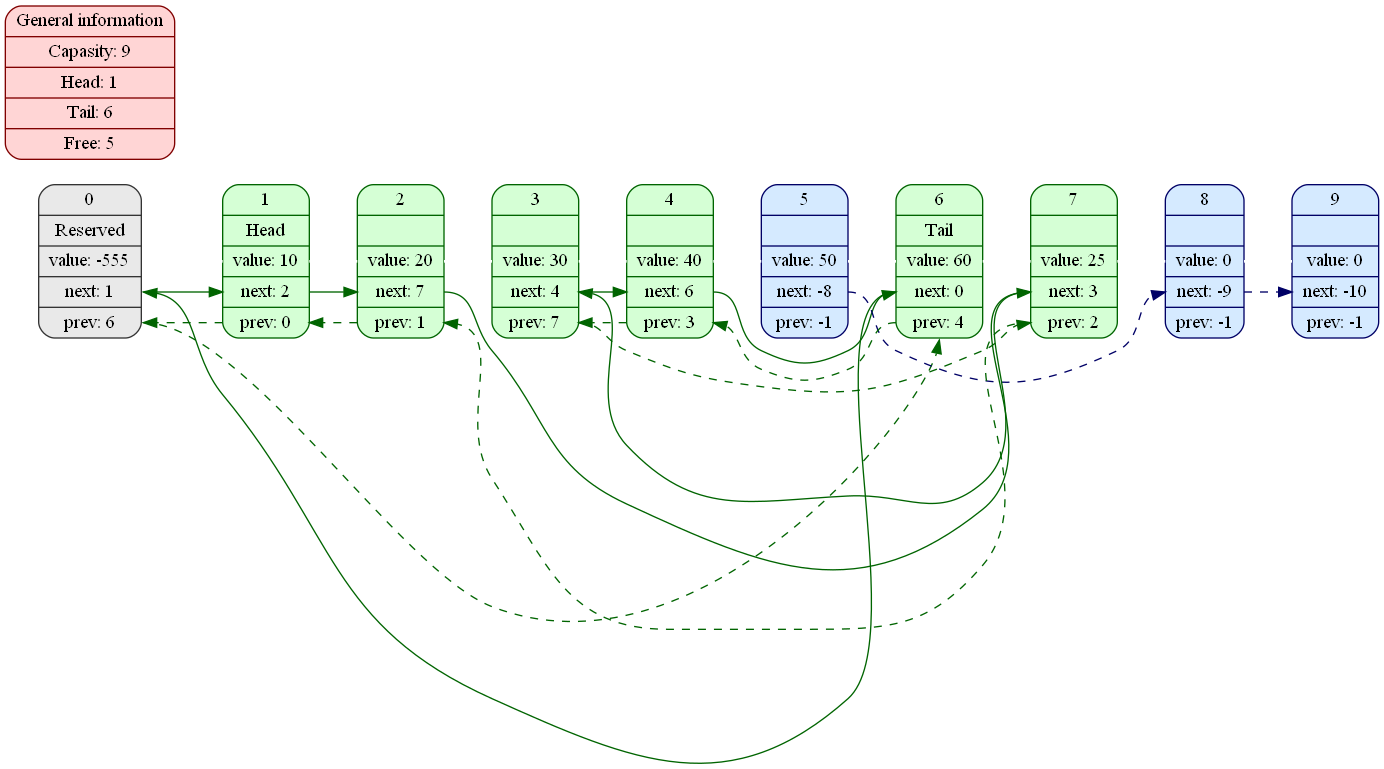
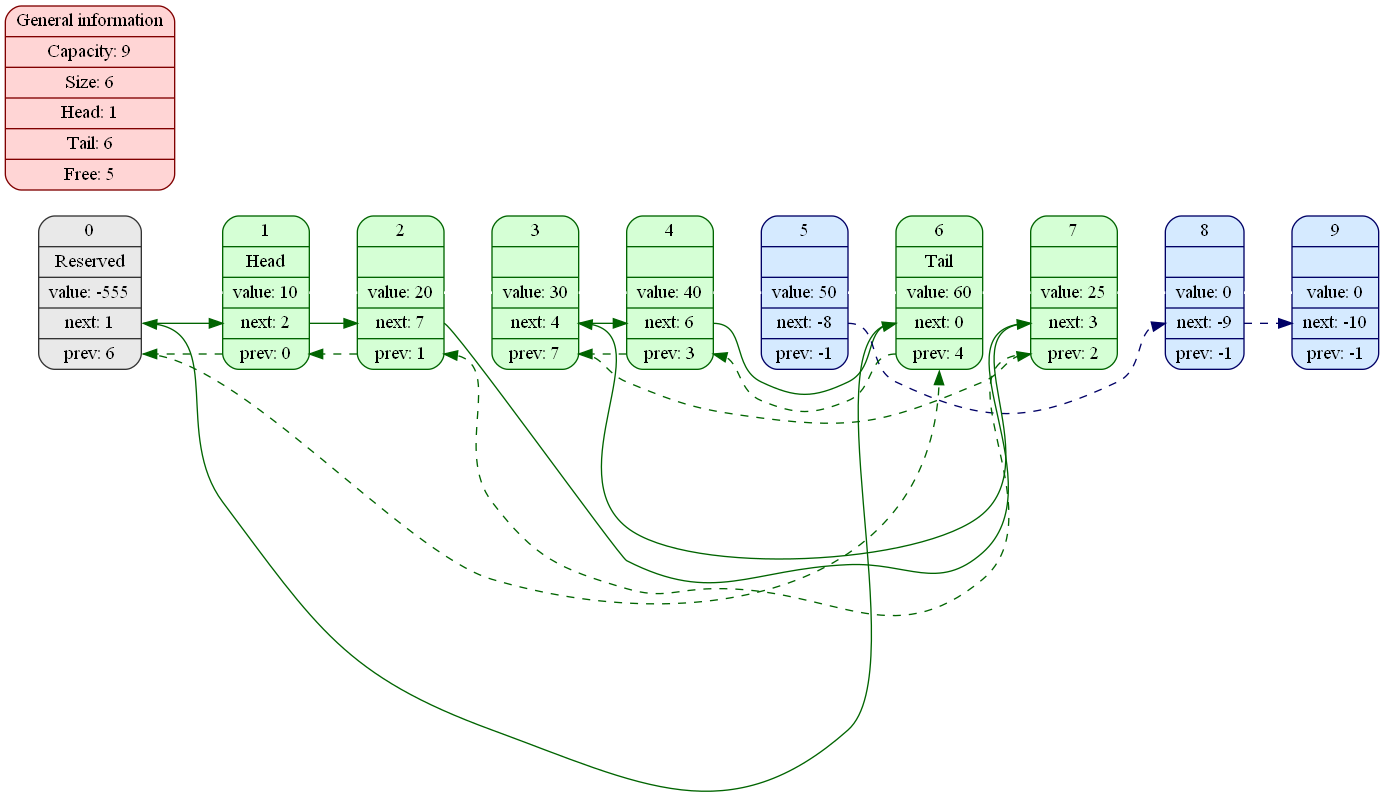
Added realloc, changed const and variables names

diff --git a/ListDump.htm b/ListDump.htm
@@ -1,24 +1,24 @@
 <pre>
--------------------------------------------File was opened at 16:10:54------------------------------------------
+-------------------------------------------File was opened at 14:13:01------------------------------------------
 
 List after initializing
 
 ---------------------------------------------------------------------------------------------------------------
 
-<img src = "C:\Users\admin\Documents\GitHub\Lists\Pictures\ListPicture1.png">
-list_dump from file: List.cpp line 367 function: ctor_dump
+<img src = "C:\Users\admin\Documents\GitHub\Lists\Pictures\ListPicture1.png" width = 70%>
+list_dump from file: List.cpp line 432 function: ctor_dump
 
 head = 0
 tail = 0
 free = 1
 
-number:  0000 | 0001 | 0002 | 0003 | 0004 | 0005 | 0006 | 0007 | 0008 | 0009 |
+number:  0000 | 0001 | 0002 | 0003 | 0004 |
 
-data:    -555 | 0000 | 0000 | 0000 | 0000 | 0000 | 0000 | 0000 | 0000 | 0000 |
+data:    -555 | 0000 | 0000 | 0000 | 0000 |
 
-next:    0000 | -002 | -003 | -004 | -005 | -006 | -007 | -008 | -009 | -010 |
+next:    0000 | -002 | -003 | -004 | -005 |
 
-prev:    0000 | -001 | -001 | -001 | -001 | -001 | -001 | -001 | -001 | -001 |
+prev:    0000 | -001 | -001 | -001 | -001 |
 
 ---------------------------------------------------------------------------------------------------------------
 
@@ -26,20 +26,20 @@ Push 10 after element with index 0
 
 ---------------------------------------------------------------------------------------------------------------
 
-<img src = "C:\Users\admin\Documents\GitHub\Lists\Pictures\ListPicture2.png">
-list_dump from file: List.cpp line 342 function: push_dump
+<img src = "C:\Users\admin\Documents\GitHub\Lists\Pictures\ListPicture2.png" width = 70%>
+list_dump from file: List.cpp line 408 function: push_dump
 
 head = 1
 tail = 1
 free = 2
 
-number:  0000 | 0001 | 0002 | 0003 | 0004 | 0005 | 0006 | 0007 | 0008 | 0009 |
+number:  0000 | 0001 | 0002 | 0003 | 0004 |
 
-data:    -555 | 0010 | 0000 | 0000 | 0000 | 0000 | 0000 | 0000 | 0000 | 0000 |
+data:    -555 | 0010 | 0000 | 0000 | 0000 |
 
-next:    0001 | 0000 | -003 | -004 | -005 | -006 | -007 | -008 | -009 | -010 |
+next:    0001 | 0000 | -003 | -004 | -005 |
 
-prev:    0001 | 0000 | -001 | -001 | -001 | -001 | -001 | -001 | -001 | -001 |
+prev:    0001 | 0000 | -001 | -001 | -001 |
 
 ---------------------------------------------------------------------------------------------------------------
 
@@ -47,20 +47,20 @@ Push 20 after element with index 1
 
 ---------------------------------------------------------------------------------------------------------------
 
-<img src = "C:\Users\admin\Documents\GitHub\Lists\Pictures\ListPicture3.png">
-list_dump from file: List.cpp line 342 function: push_dump
+<img src = "C:\Users\admin\Documents\GitHub\Lists\Pictures\ListPicture3.png" width = 70%>
+list_dump from file: List.cpp line 408 function: push_dump
 
 head = 1
 tail = 2
 free = 3
 
-number:  0000 | 0001 | 0002 | 0003 | 0004 | 0005 | 0006 | 0007 | 0008 | 0009 |
+number:  0000 | 0001 | 0002 | 0003 | 0004 |
 
-data:    -555 | 0010 | 0020 | 0000 | 0000 | 0000 | 0000 | 0000 | 0000 | 0000 |
+data:    -555 | 0010 | 0020 | 0000 | 0000 |
 
-next:    0001 | 0002 | 0000 | -004 | -005 | -006 | -007 | -008 | -009 | -010 |
+next:    0001 | 0002 | 0000 | -004 | -005 |
 
-prev:    0002 | 0000 | 0001 | -001 | -001 | -001 | -001 | -001 | -001 | -001 |
+prev:    0002 | 0000 | 0001 | -001 | -001 |
 
 ---------------------------------------------------------------------------------------------------------------
 
@@ -68,20 +68,20 @@ Push 30 after element with index 2
 
 ---------------------------------------------------------------------------------------------------------------
 
-<img src = "C:\Users\admin\Documents\GitHub\Lists\Pictures\ListPicture4.png">
-list_dump from file: List.cpp line 342 function: push_dump
+<img src = "C:\Users\admin\Documents\GitHub\Lists\Pictures\ListPicture4.png" width = 70%>
+list_dump from file: List.cpp line 408 function: push_dump
 
 head = 1
 tail = 3
 free = 4
 
-number:  0000 | 0001 | 0002 | 0003 | 0004 | 0005 | 0006 | 0007 | 0008 | 0009 |
+number:  0000 | 0001 | 0002 | 0003 | 0004 |
 
-data:    -555 | 0010 | 0020 | 0030 | 0000 | 0000 | 0000 | 0000 | 0000 | 0000 |
+data:    -555 | 0010 | 0020 | 0030 | 0000 |
 
-next:    0001 | 0002 | 0003 | 0000 | -005 | -006 | -007 | -008 | -009 | -010 |
+next:    0001 | 0002 | 0003 | 0000 | -005 |
 
-prev:    0003 | 0000 | 0001 | 0002 | -001 | -001 | -001 | -001 | -001 | -001 |
+prev:    0003 | 0000 | 0001 | 0002 | -001 |
 
 ---------------------------------------------------------------------------------------------------------------
 
@@ -89,8 +89,8 @@ Push 40 after element with index 3
 
 ---------------------------------------------------------------------------------------------------------------
 
-<img src = "C:\Users\admin\Documents\GitHub\Lists\Pictures\ListPicture5.png">
-list_dump from file: List.cpp line 342 function: push_dump
+<img src = "C:\Users\admin\Documents\GitHub\Lists\Pictures\ListPicture5.png" width = 70%>
+list_dump from file: List.cpp line 408 function: push_dump
 
 head = 1
 tail = 4
@@ -110,8 +110,8 @@ Push 50 after element with index 4
 
 ---------------------------------------------------------------------------------------------------------------
 
-<img src = "C:\Users\admin\Documents\GitHub\Lists\Pictures\ListPicture6.png">
-list_dump from file: List.cpp line 342 function: push_dump
+<img src = "C:\Users\admin\Documents\GitHub\Lists\Pictures\ListPicture6.png" width = 70%>
+list_dump from file: List.cpp line 408 function: push_dump
 
 head = 1
 tail = 5
@@ -131,8 +131,8 @@ Push 60 after element with index 5
 
 ---------------------------------------------------------------------------------------------------------------
 
-<img src = "C:\Users\admin\Documents\GitHub\Lists\Pictures\ListPicture7.png">
-list_dump from file: List.cpp line 342 function: push_dump
+<img src = "C:\Users\admin\Documents\GitHub\Lists\Pictures\ListPicture7.png" width = 70%>
+list_dump from file: List.cpp line 408 function: push_dump
 
 head = 1
 tail = 6
@@ -152,8 +152,8 @@ Push 25 after element with index 2
 
 ---------------------------------------------------------------------------------------------------------------
 
-<img src = "C:\Users\admin\Documents\GitHub\Lists\Pictures\ListPicture8.png">
-list_dump from file: List.cpp line 342 function: push_dump
+<img src = "C:\Users\admin\Documents\GitHub\Lists\Pictures\ListPicture8.png" width = 70%>
+list_dump from file: List.cpp line 408 function: push_dump
 
 head = 1
 tail = 6
@@ -173,8 +173,8 @@ Pop after element with index 4
 
 ---------------------------------------------------------------------------------------------------------------
 
-<img src = "C:\Users\admin\Documents\GitHub\Lists\Pictures\ListPicture9.png">
-list_dump from file: List.cpp line 355 function: pop_dump
+<img src = "C:\Users\admin\Documents\GitHub\Lists\Pictures\ListPicture9.png" width = 70%>
+list_dump from file: List.cpp line 420 function: pop_dump
 
 head = 1
 tail = 6

diff --git a/List.h b/List.h
@@ -1,8 +1,10 @@
 #ifndef LIST_H_INCLUDED
 #define LIST_H_INCLUDED
 
-const size_t ListLen = 10;
-const int ListPoison = -555;
+const size_t INITIALLISTLEN = 5;
+const int REALLOCCOEFF = 2;
+const size_t MAXLISTLEN = 1000;
+const int LISTPOISON = -555;
 
 enum Errors {
     NoErrors         = 0,
@@ -13,6 +15,7 @@ enum Errors {
     NegativeFree     = 1 << 4,
     NotMatchNextPrev = 1 << 5,
     IncorrectInput   = 1 << 6,
+    ReallocError     = 1 << 7,
 };
 
 struct List {
@@ -20,6 +23,8 @@ struct List {
     int* next;
     int* prev;
     int free;
+    size_t capacity;
+    int size;
 };
 
 
@@ -35,6 +40,7 @@ int list_dump_picture(const List* list);
 
 int list_push(List* list, int value, int previous);
 int list_pop(List* list, int previous);
+int list_realloc(List* list, size_t new_capacity);
 
 int get_head(const List* list);
 int get_tail(const List* list);
